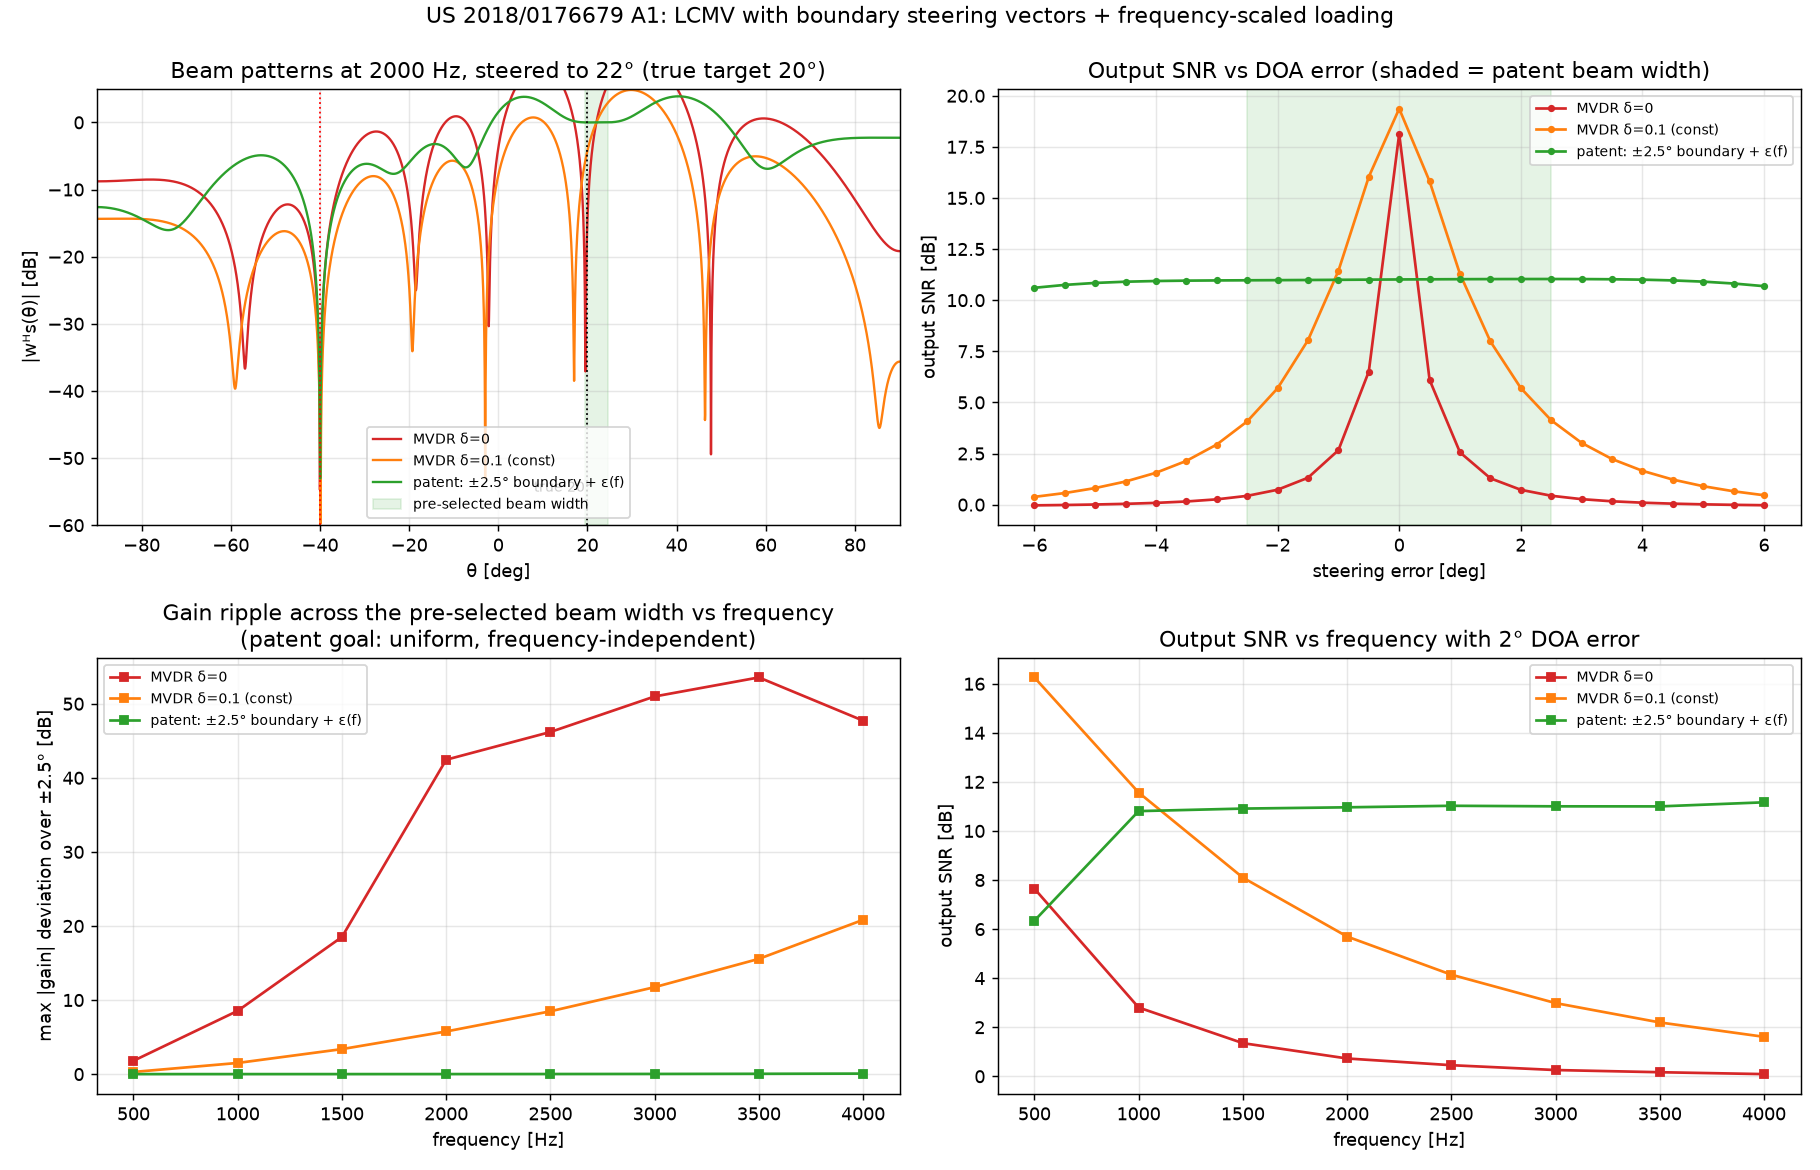
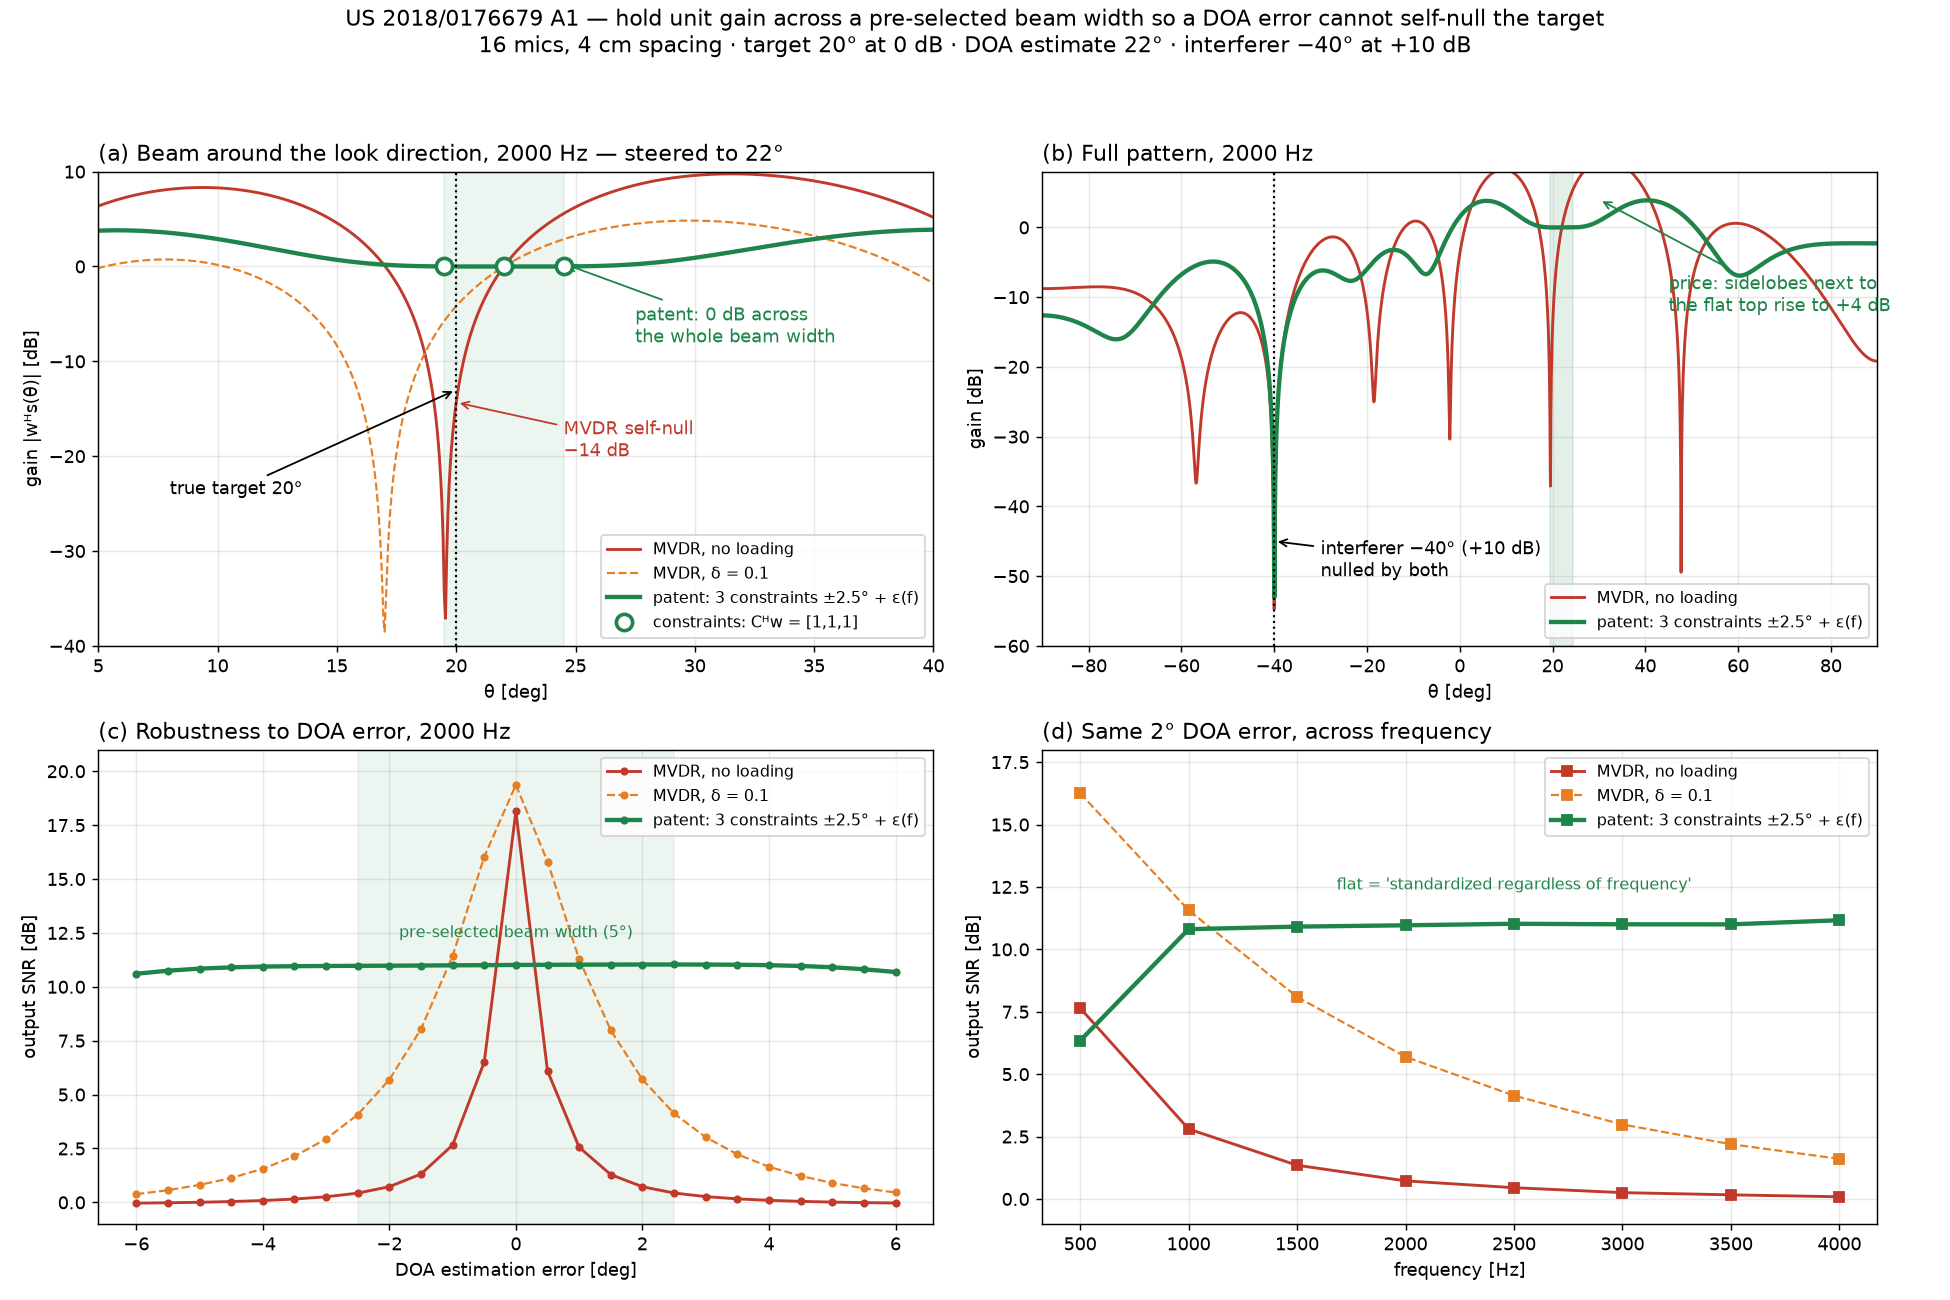
Patent demo: clearer figure (one idea per panel, annotated constraints and self-null)

diff --git a/src/patent_beamwidth_lcmv.py b/src/patent_beamwidth_lcmv.py
@@ -138,39 +138,73 @@ for m in METHODS:
     print(f"  {m:32s}", np.round(bw[m], 1))
 
 # --------------------------------------------------------------------------
-fig, axes = plt.subplots(2, 2, figsize=(14, 9))
-cols = ["C3", "C1", "C2"]
+# Figure: one idea per panel
+# --------------------------------------------------------------------------
+STYLE = {METHODS[0]: dict(color="#c0392b", lw=1.6, ls="-",  label="MVDR, no loading"),
+         METHODS[1]: dict(color="#e67e22", lw=1.2, ls="--", label="MVDR, δ = 0.1"),
+         METHODS[2]: dict(color="#1e8449", lw=2.4, ls="-",  label="patent: 3 constraints ±2.5° + ε(f)")}
+cons_deg = [DOA_EST_DEG - BEAM_WIDTH_DEG/2, DOA_EST_DEG, DOA_EST_DEG + BEAM_WIDTH_DEG/2]
 
+fig, axes = plt.subplots(2, 2, figsize=(15, 10))
+fig.patch.set_facecolor("white")
+
+# (a) zoom on the beam: where the constraints sit and where the target is
 ax = axes[0, 0]
-for p, m, c in zip(pats, METHODS, cols):
-    ax.plot(thetas, p, color=c, lw=1.3, label=m)
-ax.axvspan(DOA_EST_DEG - BEAM_WIDTH_DEG/2, DOA_EST_DEG + BEAM_WIDTH_DEG/2, color="C2", alpha=0.12, label="pre-selected beam width")
-ax.axvline(TARGET_DEG, color="k", ls=":", lw=1); ax.axvline(INTERF_DEG, color="r", ls=":", lw=1)
-ax.text(TARGET_DEG - 12, -55, "true 20°", fontsize=8)
-ax.set_xlim(-90, 90); ax.set_ylim(-60, 5); ax.set_xlabel("θ [deg]"); ax.set_ylabel("|wᴴs(θ)| [dB]")
-ax.set_title(f"Beam patterns at {F_SHOW} Hz, steered to {DOA_EST_DEG:.0f}° (true target {TARGET_DEG:.0f}°)"); ax.grid(alpha=0.3); ax.legend(fontsize=8)
+for m, p in zip(METHODS, pats):
+    ax.plot(thetas, p, **STYLE[m])
+ax.axvspan(cons_deg[0], cons_deg[2], color="#1e8449", alpha=0.08)
+ax.plot(cons_deg, [0, 0, 0], "o", ms=9, mfc="white", mec="#1e8449", mew=2, zorder=5,
+        label="constraints: Cᴴw = [1,1,1]")
+ax.axvline(TARGET_DEG, color="k", ls=":", lw=1.2)
+ax.annotate("true target 20°", xy=(TARGET_DEG, -13), xytext=(8, -24), fontsize=10,
+            arrowprops=dict(arrowstyle="->", lw=1))
+ax.annotate("MVDR self-null\n−14 dB", xy=(TARGET_DEG, pats[0][np.argmin(np.abs(thetas - TARGET_DEG))]),
+            xytext=(24.5, -20), fontsize=10, color="#c0392b", arrowprops=dict(arrowstyle="->", color="#c0392b", lw=1))
+ax.annotate("patent: 0 dB across\nthe whole beam width", xy=(cons_deg[2], 0.3), xytext=(27.5, -8), fontsize=10,
+            color="#1e8449", arrowprops=dict(arrowstyle="->", color="#1e8449", lw=1))
+ax.set_xlim(5, 40); ax.set_ylim(-40, 10)
+ax.set_xlabel("θ [deg]"); ax.set_ylabel("gain |wᴴs(θ)| [dB]")
+ax.set_title(f"(a) Beam around the look direction, {F_SHOW} Hz — steered to {DOA_EST_DEG:.0f}°", loc="left", fontsize=12)
+ax.grid(alpha=0.3); ax.legend(loc="lower right", fontsize=9)
 
+# (b) full pattern, MVDR vs patent only
 ax = axes[0, 1]
-for m, c in zip(METHODS, cols):
-    ax.plot(errors, snr_err[m], color=c, lw=1.5, marker="o", ms=3, label=m)
-ax.axvspan(-BEAM_WIDTH_DEG/2, BEAM_WIDTH_DEG/2, color="C2", alpha=0.12)
-ax.set_xlabel("steering error [deg]"); ax.set_ylabel("output SNR [dB]")
-ax.set_title("Output SNR vs DOA error (shaded = patent beam width)"); ax.grid(alpha=0.3); ax.legend(fontsize=8)
+for m in (METHODS[0], METHODS[2]):
+    ax.plot(thetas, pats[METHODS.index(m)], **STYLE[m])
+ax.axvspan(cons_deg[0], cons_deg[2], color="#1e8449", alpha=0.12)
+ax.axvline(INTERF_DEG, color="k", ls=":", lw=1.2)
+ax.annotate("interferer −40° (+10 dB)\nnulled by both", xy=(INTERF_DEG, -45), xytext=(-30, -50), fontsize=10,
+            arrowprops=dict(arrowstyle="->", lw=1))
+ax.annotate("price: sidelobes next to\nthe flat top rise to +4 dB", xy=(30, 4), xytext=(45, -12), fontsize=10,
+            color="#1e8449", arrowprops=dict(arrowstyle="->", color="#1e8449", lw=1))
+ax.set_xlim(-90, 90); ax.set_ylim(-60, 8)
+ax.set_xlabel("θ [deg]"); ax.set_ylabel("gain [dB]")
+ax.set_title(f"(b) Full pattern, {F_SHOW} Hz", loc="left", fontsize=12)
+ax.grid(alpha=0.3); ax.legend(loc="lower right", fontsize=9)
 
+# (c) SNR vs DOA error
 ax = axes[1, 0]
-for m, c in zip(METHODS, cols):
-    ax.plot(FREQS, bw[m], color=c, lw=1.5, marker="s", ms=4, label=m)
-ax.set_xlabel("frequency [Hz]"); ax.set_ylabel(f"max |gain| deviation over ±{BEAM_WIDTH_DEG/2:.1f}° [dB]")
-ax.set_title("Gain ripple across the pre-selected beam width vs frequency\n(patent goal: uniform, frequency-independent)"); ax.grid(alpha=0.3); ax.legend(fontsize=8)
+ax.axvspan(-BEAM_WIDTH_DEG/2, BEAM_WIDTH_DEG/2, color="#1e8449", alpha=0.08)
+for m in METHODS:
+    ax.plot(errors, snr_err[m], marker="o", ms=3.5, **STYLE[m])
+ax.text(0, 12.3, "pre-selected beam width (5°)", ha="center", fontsize=9, color="#1e8449")
+ax.set_xlabel("DOA estimation error [deg]"); ax.set_ylabel("output SNR [dB]")
+ax.set_title(f"(c) Robustness to DOA error, {F_SHOW} Hz", loc="left", fontsize=12)
+ax.set_ylim(-1, 21); ax.grid(alpha=0.3); ax.legend(loc="upper right", fontsize=9)
 
+# (d) SNR vs frequency with 2° error
 ax = axes[1, 1]
-for m, c in zip(METHODS, cols):
-    ax.plot(FREQS, snr_f[m], color=c, lw=1.5, marker="s", ms=4, label=m)
+for m in METHODS:
+    ax.plot(FREQS, snr_f[m], marker="s", ms=5, **STYLE[m])
 ax.set_xlabel("frequency [Hz]"); ax.set_ylabel("output SNR [dB]")
-ax.set_title("Output SNR vs frequency with 2° DOA error"); ax.grid(alpha=0.3); ax.legend(fontsize=8)
+ax.set_title("(d) Same 2° DOA error, across frequency", loc="left", fontsize=12)
+ax.set_ylim(-1, 18); ax.grid(alpha=0.3); ax.legend(loc="upper right", fontsize=9)
+ax.text(2500, 12.4, "flat = 'standardized regardless of frequency'", fontsize=9, color="#1e8449", ha="center")
 
-fig.suptitle("US 2018/0176679 A1: LCMV with boundary steering vectors + frequency-scaled loading", y=0.995)
-fig.tight_layout()
+fig.suptitle("US 2018/0176679 A1 — hold unit gain across a pre-selected beam width so a DOA error cannot self-null the target\n"
+             f"{M} mics, {D_M*100:.0f} cm spacing · target 20° at 0 dB · DOA estimate 22° · interferer −40° at +10 dB",
+             fontsize=12, y=0.995)
+fig.tight_layout(rect=(0, 0, 1, 0.96))
 os.makedirs(PLOTS_DIR, exist_ok=True)
 out = os.path.join(PLOTS_DIR, "patent_beamwidth_lcmv.png")
 fig.savefig(out, dpi=130)

diff --git a/beamforming_experiments.md b/beamforming_experiments.md
@@ -496,13 +496,15 @@ MVDR δ=0.1 (const)                −4.2 dB   −46.8 dB     5.7 dB       5.7 d
 patent ±2.5° boundary + ε(f)      −0.0 dB   −50.1 dB    11.0 dB       0.0 dB
 ```
 
-- Top-right: output SNR is flat at 11 dB for any DOA error inside ±2.5°
-  (and degrades gently outside), where MVDR is a 1°-wide spike.
-- Bottom row: gain ripple across the beam width is 0 dB at every
-  frequency, and output SNR with 2° error is flat 1–4 kHz, versus MVDR's
-  collapse as frequency (resolution) rises. That is the "standardized"
-  behaviour the claims describe.
-- Price: sidelobes next to the beam bulge to +4 dB (top-left, green) —
+- (a) The three open circles are the constraints `Cᴴw = [1,1,1]` at
+  19.5°, 22°, 24.5°. The true target at 20° sits inside; MVDR's −14 dB
+  self-null lands there, the patent's pattern is pinned at 0 dB.
+- (c) Output SNR is flat at 11 dB for any DOA error inside ±2.5° (and
+  degrades gently outside), where MVDR is a 1°-wide spike.
+- (d) With the same 2° error the patent's SNR is flat 1–4 kHz, versus
+  MVDR's collapse as frequency (resolution) rises — the "standardized
+  regardless of frequency" behaviour the claims describe.
+- (b) Price: sidelobes next to the flat top bulge to +4 dB —
   three equal-gain constraints 2.5° apart flatten the curvature at the
   look direction, so the true maximum moves outside. The patent's Γ
   row/column offset (¶31) is presumably for this; the text is not specific.
